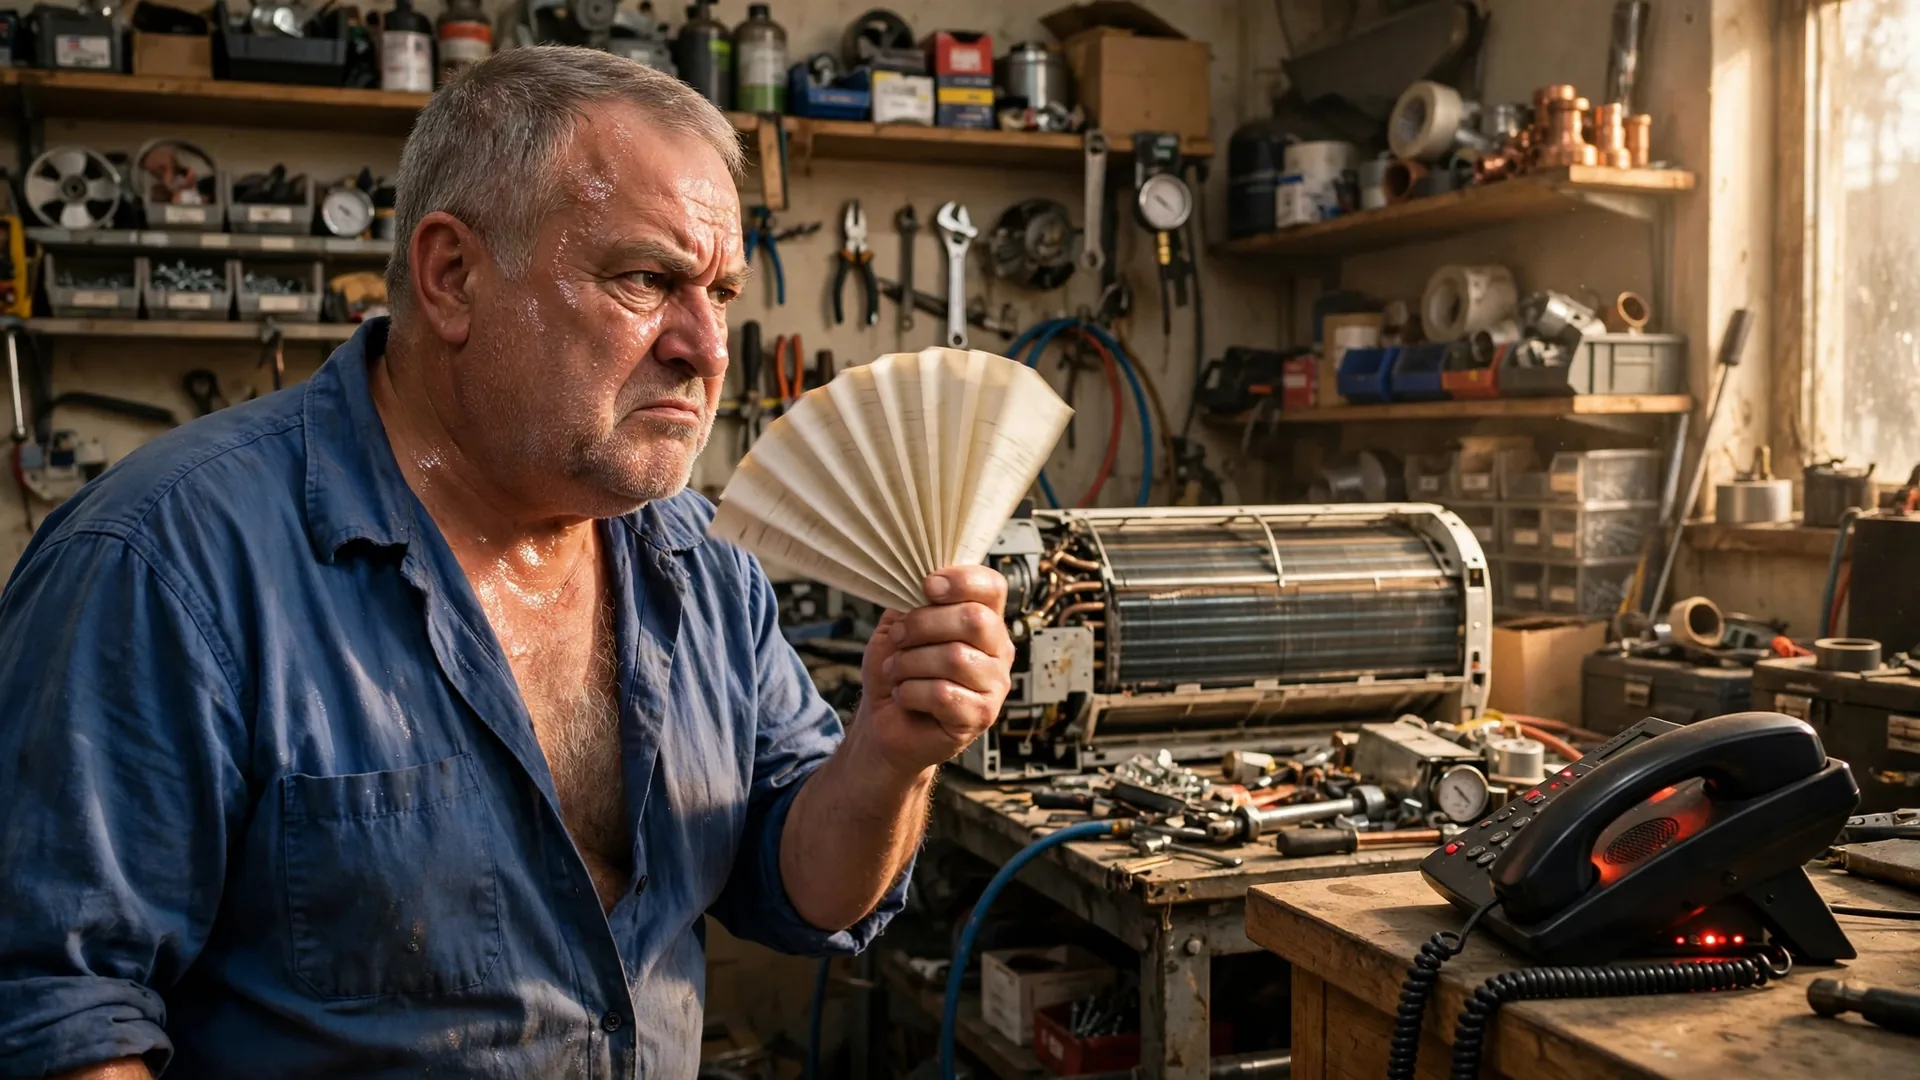
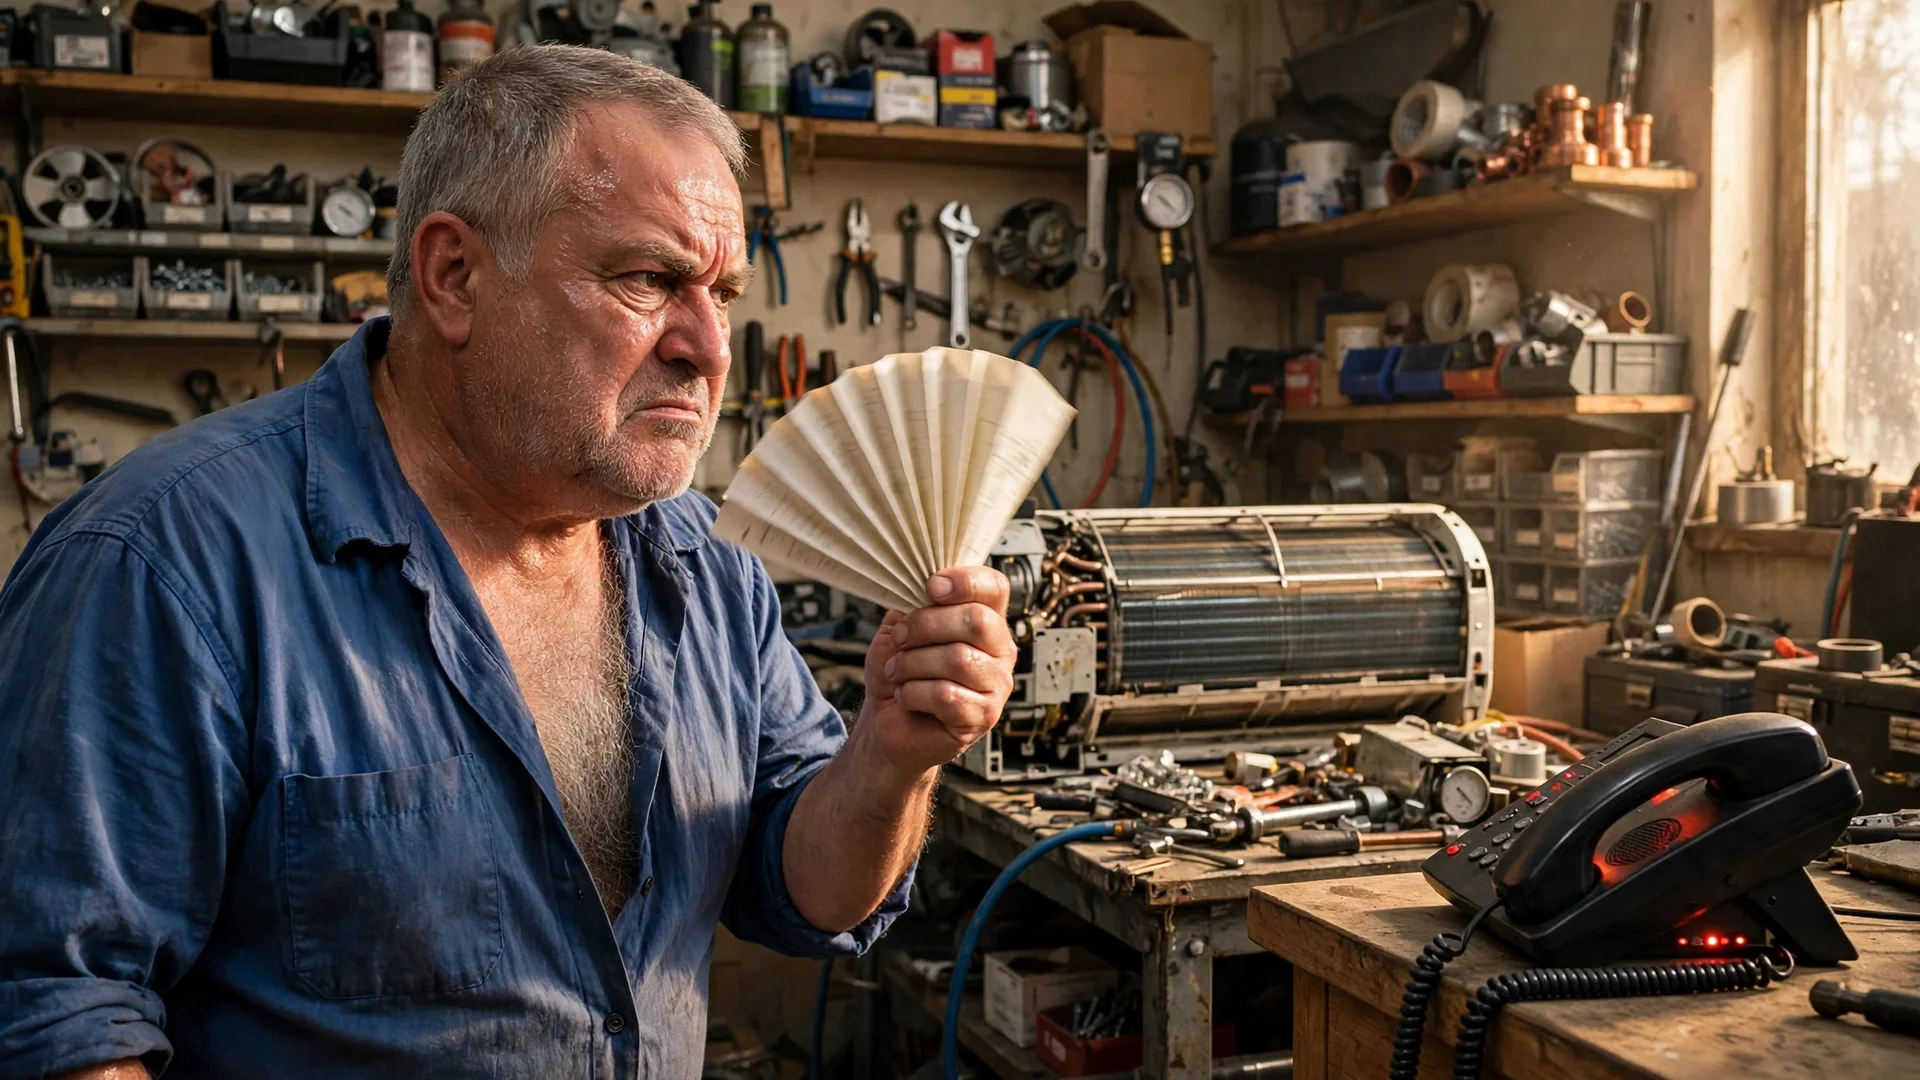
Hero slider package v2: hairier AC man + white-haired owner, husky couple in, older couple to line 5, Aspen closer
- Slide 1: AC guy swapped to the hairier edit (mirrored, person LEFT)
- Slide 3: white-haired owner swapped to the owner-confirmed phone-at-face
  master (pre-mirrored, speech bubble composited in; alt text updated)
- Slide 4: NEW husky couple takes the spokespersons/own-face line
- Slide 5: older couple (couple-relief) moves here from line 4
- Slide 6: NEW Aspen + owners closer takes the $99/prospects line
  (generated tablet dashboard ships as-is — a real dashboard capture
  could not be taken from this VM: Chromium cannot reach the live
  site or Supabase, SSL errors direct / tunnel failures via proxy)
- Retired and deleted: hero-firm-relief-white, hero-manufacturer-relief-white
- Component controls, dwell, heights and copy unchanged

diff --git a/src/components/landing/HeroSceneSlider.tsx b/src/components/landing/HeroSceneSlider.tsx
@@ -14,12 +14,12 @@ import rooferPain from "@/assets/hero-scenes/hero-roofer-pain.webp";
 import rooferPainSm from "@/assets/hero-scenes/hero-roofer-pain-sm.webp";
 import manufacturerPainWhitehair from "@/assets/hero-scenes/hero-manufacturer-pain-whitehair.webp";
 import manufacturerPainWhitehairSm from "@/assets/hero-scenes/hero-manufacturer-pain-whitehair-sm.webp";
+import coupleHusky from "@/assets/hero-scenes/hero-couple-husky.webp";
+import coupleHuskySm from "@/assets/hero-scenes/hero-couple-husky-sm.webp";
 import coupleRelief from "@/assets/hero-scenes/hero-couple-relief.webp";
 import coupleReliefSm from "@/assets/hero-scenes/hero-couple-relief-sm.webp";
-import firmReliefWhite from "@/assets/hero-scenes/hero-firm-relief-white.webp";
-import firmReliefWhiteSm from "@/assets/hero-scenes/hero-firm-relief-white-sm.webp";
-import manufacturerReliefWhite from "@/assets/hero-scenes/hero-manufacturer-relief-white.webp";
-import manufacturerReliefWhiteSm from "@/assets/hero-scenes/hero-manufacturer-relief-white-sm.webp";
+import aspenOwners from "@/assets/hero-scenes/hero-aspen-owners.webp";
+import aspenOwnersSm from "@/assets/hero-scenes/hero-aspen-owners-sm.webp";
 
 interface HeroScene {
   id: string;
@@ -37,26 +37,28 @@ interface HeroScene {
   position: string;
 }
 
-// The seven scenes (2026-11-18, owner-approved final lineup): the four
-// pain lines show the missed-call moment — owners caught mid-job while
-// the phone rings unanswered — and the three promise lines show the same
-// world calm, the phones handled. Candid, photorealistic, one campaign
-// grade; signage carries no names or logos. Casting per the owner: one
-// Black owner (the plumber), one Latino owner (the roofer), the rest
-// white — including two white-haired owners (the AC man, the
-// machine-shop owner) and an older couple. Person side alternates
-// against the slogan side: even slides person RIGHT / text LEFT, odd
-// slides person LEFT / text RIGHT (the person-left photos are mirrored
-// versions of the approved generations — no readable text in any of
-// them, so nothing reads backwards).
+// The seven scenes (2026-11-18, owner-approved lineup, SLIDER PACKAGE
+// v2): the four pain lines show the missed-call moment — owners caught
+// mid-job while the phone rings unanswered — and the three promise
+// lines show the same world calm, the phones handled, closing on Aspen
+// herself showing two owners the leads she caught. Candid,
+// photorealistic, one campaign grade; signage carries no names or
+// logos. Casting per the owner: one Black owner (the plumber), one
+// Latino owner (the roofer), the rest white — including two
+// white-haired owners (the AC man, the machine-shop owner), a husky
+// husband-and-wife shop couple, and an older couple. Person side
+// alternates against the slogan side: even slides person RIGHT / text
+// LEFT, odd slides person LEFT / text RIGHT (the person-left photos are
+// mirrored versions of the approved generations — no readable text in
+// any of them, so nothing reads backwards).
 const HERO_SCENES: readonly HeroScene[] = [
   { id: "plumber-pain", src: plumberPain, srcSm: plumberPainSm, position: "72% 25%", alt: "A plumber under a kitchen sink, glancing at her phone ringing on the counter" },
   { id: "ac-guy-pain", src: acGuyPain, srcSm: acGuyPainSm, position: "30% 20%", alt: "An air-conditioning repairman fanning himself in a hot workshop while his desk phone rings" },
   { id: "roofer-pain", src: rooferPain, srcSm: rooferPainSm, position: "62% 12%", alt: "A roofer up on a roof, nail gun in hand, his phone buzzing in his tool belt" },
-  { id: "manufacturer-pain-whitehair", src: manufacturerPainWhitehair, srcSm: manufacturerPainWhitehairSm, position: "30% 18%", alt: "A white-haired machine-shop owner with his hand to his forehead, buried in paper orders" },
+  { id: "manufacturer-pain-whitehair", src: manufacturerPainWhitehair, srcSm: manufacturerPainWhitehairSm, position: "30% 10%", alt: "A white-haired machine-shop owner staring at his phone in disbelief at six missed calls, buried in paper orders" },
+  { id: "couple-husky", src: coupleHusky, srcSm: coupleHuskySm, position: "70% 20%", alt: "A husband-and-wife couple who own a furniture workshop, smiling together among their handmade tables" },
   { id: "couple-relief", src: coupleRelief, srcSm: coupleReliefSm, position: "68% 22%", alt: "An older couple who own a small shop, laughing as they hand a bag to a customer" },
-  { id: "firm-relief-white", src: firmReliefWhite, srcSm: firmReliefWhiteSm, position: "28% 20%", alt: "A firm owner smiling calmly at her laptop in a bright office" },
-  { id: "manufacturer-relief-white", src: manufacturerReliefWhite, srcSm: manufacturerReliefWhiteSm, position: "72% 18%", alt: "A machine-shop owner walking his factory floor with a tablet, smiling" },
+  { id: "aspen-owners", src: aspenOwners, srcSm: aspenOwnersSm, position: "78% 25%", alt: "Aspen showing two kitchen and marble shop owners their answered calls and new leads on a tablet" },
 ];
 
 /**
@@ -66,10 +68,10 @@ const HERO_SCENES: readonly HeroScene[] = [
  *   0 voicemail / don't call back      -> plumber-pain (under the sink, phone lit on the counter)
  *   1 hang up, can't reach a person    -> ac-guy-pain (shirt open in the heat, fanning himself, desk phone ringing)
  *   2 78% abandoned, one missed call   -> roofer-pain (up on the roof, phone buzzing in his belt)
- *   3 owners shocked, ONE missed call  -> manufacturer-pain-whitehair (the one head-in-hand beat)
- *   4 spokespersons / your own face    -> couple-relief (the owners ARE the face, laughing with a customer)
- *   5 never miss another call, 24/7    -> firm-relief-white (calm at her desk, calls handled)
- *   6 $99/mo + B2B prospects           -> manufacturer-relief-white (walking the floor, business humming)
+ *   3 owners shocked, ONE missed call  -> manufacturer-pain-whitehair (staring at his phone — six missed calls — the disbelief beat; the master is pre-mirrored with the owner's speech bubble composited in)
+ *   4 spokespersons / your own face    -> couple-husky (the owners ARE the face of their workshop)
+ *   5 never miss another call, 24/7    -> couple-relief (the older couple, free to laugh with the customer in front of them)
+ *   6 $99/mo + B2B prospects           -> aspen-owners (Aspen showing the cabinet-shop owners their leads on her tablet — the payoff)
  */
 const SCENE_FOR_LINE: readonly number[] = [0, 1, 2, 3, 4, 5, 6];
 

diff --git a/src/test/hero-scene-slider.test.tsx b/src/test/hero-scene-slider.test.tsx
@@ -29,17 +29,17 @@ const activeSlideId = (container: HTMLElement) =>
   container.querySelector<HTMLElement>("[data-hero-slide][data-active='true']")
     ?.dataset.heroSlide;
 
-// The scene each line index must show, in order (final lineup,
+// The scene each line index must show, in order (SLIDER PACKAGE v2,
 // 2026-11-18): pain (plumber, AC man, roofer, white-haired owner) then
-// relief (older couple, firm owner, manufacturer).
+// relief (husky couple, older couple) closing on Aspen with the owners.
 const EXPECTED_SCENES = [
   "plumber-pain",
   "ac-guy-pain",
   "roofer-pain",
   "manufacturer-pain-whitehair",
+  "couple-husky",
   "couple-relief",
-  "firm-relief-white",
-  "manufacturer-relief-white",
+  "aspen-owners",
 ];
 
 afterEach(() => {
